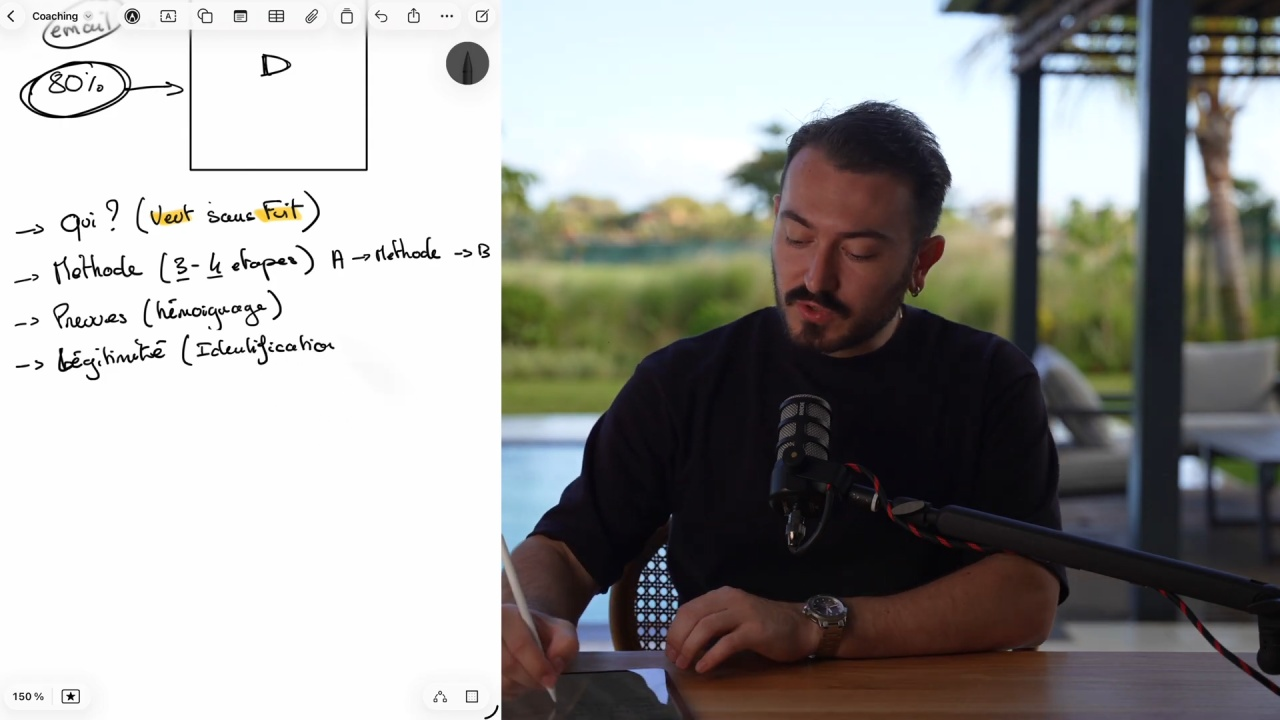
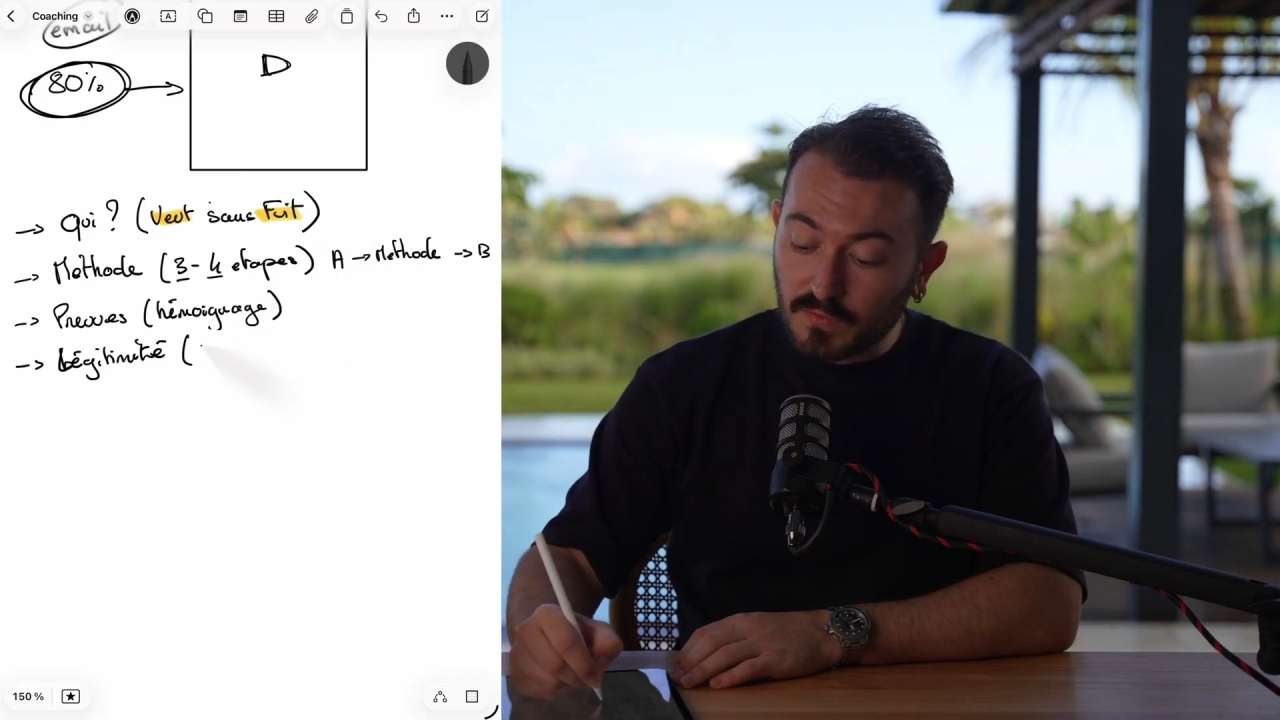
go.funnels.club/lancement et /lancement-appel ; le bouton dit « appel de candidature »

diff --git a/apps/web/contenu/pages-video.ts b/apps/web/contenu/pages-video.ts
@@ -1,5 +1,5 @@
 /**
- * Les pages `go.funnels.club/debuts` et `/stable`, sur demande de Rémy : une
+ * Les pages `go.funnels.club/debuts`, `/stable` et `/lancement`, sur demande de Rémy : une
  * vidéo Wistia et son titre. La description est à valider par Rémy.
  */
 export const videoDebuts = {
@@ -19,12 +19,28 @@ export const videoStable = {
 } as const;
 
 /**
- * `go.funnels.club/debuts-appel` et `/stable-appel` : `/debuts` et `/stable`
- * avec un bouton sous la vidéo vers l'appel, sur demande de Rémy. Le libellé
- * est celui de `/strategie`, écrit une fois pour les deux pages.
+ * `go.funnels.club/lancement`. Le titre est le nom de la vidéo dans Wistia,
+ * sans son préfixe « Confirmation · » ; la vidéo est aussi celle de qui démarre
+ * de zéro sur `/thanks-quizz`. La description est à valider par Rémy.
+ */
+export const videoLancement = {
+  id: "vkvffo2189",
+  /* 2 738,73 secondes, relevées sur l'API de Wistia. */
+  secondes: 2739,
+  titre: "Comment lancer une formation en ligne en 2026",
+  description:
+    "La vidéo où Rémy Jupille explique comment lancer une formation en ligne en 2026, étape par étape.",
+} as const;
+
+/**
+ * `go.funnels.club/debuts-appel`, `/stable-appel` et `/lancement-appel` : `/debuts` et `/stable`
+ * avec un bouton sous la vidéo vers l'appel, sur demande de Rémy. « Appel de
+ * candidature » et non « découverte », sur sa demande : écrit une fois pour
+ * les trois pages.
  */
 const appelVideo = {
-  libelle: "Réserver mon appel découverte",
+  libelle: "Réserver mon appel de candidature",
 } as const;
 export const appelDebuts = appelVideo;
 export const appelStable = appelVideo;
+export const appelLancement = appelVideo;

diff --git a/apps/web/app/lancement-appel/page.tsx b/apps/web/app/lancement-appel/page.tsx
@@ -1,0 +1,37 @@
+import { PageVideo } from "@/components/page-video";
+import { appelLancement, videoLancement } from "@/contenu/pages-video";
+import { liens } from "@/contenu/site";
+import { partageTunnel } from "@/lib/partage";
+import { avecReglages } from "@/lib/reglages-seo";
+import type { Metadata } from "next";
+
+/**
+ * `/lancement` avec un bouton d'appel sous la vidéo, sur demande de Rémy. Même
+ * vidéo, même titre, même suite ; l'aperçu de partage est celui de `/lancement`.
+ * L'adresse de l'appel porte sa balise Hyros, déjà posée dans `liens`.
+ */
+const metadonnees: Metadata = {
+  title: videoLancement.titre,
+  description: videoLancement.description,
+  ...partageTunnel({
+    titre: `${videoLancement.titre} · Funnels Club`,
+    description: videoLancement.description,
+    image: "lancement",
+    alt: videoLancement.titre,
+  }),
+};
+
+export default function LancementAppel() {
+  return (
+    <PageVideo
+      titre={videoLancement.titre}
+      video={videoLancement}
+      appel={{ href: liens.appel, libelle: appelLancement.libelle }}
+    />
+  );
+}
+
+/** Les métadonnées de la page, avec les réglages SEO du CRM par-dessus. */
+export async function generateMetadata(): Promise<Metadata> {
+  return avecReglages("/lancement-appel", metadonnees);
+}

diff --git a/apps/web/components/page-video.tsx b/apps/web/components/page-video.tsx
@@ -8,10 +8,10 @@ import { insecables } from "@/lib/typographie";
  * Une page de `go.funnels.club` faite d'une vidéo, sur le modèle de `/thanks`,
  * sur demande de Rémy : le titre tout en haut, la vidéo sans carte blanche,
  * puis la suite de la page telle quelle, de Roland à l'équipe.
- * Sert à `/debuts`, `/stable` et à leurs versions `-appel`, hors du Quizz Funnel.
+ * Sert à `/debuts`, `/stable`, `/lancement` et à leurs versions `-appel`, hors du Quizz Funnel.
  *
  * `appel`, facultatif, pose un bouton sous la vidéo : c'est ce qui distingue
- * `/stable-appel` de `/stable`, et `/debuts-appel` de `/debuts`, sur demande de Rémy. Il s'ouvre dans un nouvel
+ * la version `-appel` de sa page, sur demande de Rémy. Il s'ouvre dans un nouvel
  * onglet, le défaut de `BoutonScintillant`, pour que la vidéo continue, et
  * relaie le `el` et l'e-mail reçus : voir `BoutonAppelRelaye`.
  */

diff --git a/apps/web/app/lancement/page.tsx b/apps/web/app/lancement/page.tsx
@@ -1,0 +1,25 @@
+import { PageVideo } from "@/components/page-video";
+import { videoLancement } from "@/contenu/pages-video";
+import { partageTunnel } from "@/lib/partage";
+import { avecReglages } from "@/lib/reglages-seo";
+import type { Metadata } from "next";
+
+const metadonnees: Metadata = {
+  title: videoLancement.titre,
+  description: videoLancement.description,
+  ...partageTunnel({
+    titre: `${videoLancement.titre} · Funnels Club`,
+    description: videoLancement.description,
+    image: "lancement",
+    alt: videoLancement.titre,
+  }),
+};
+
+export default function Lancement() {
+  return <PageVideo titre={videoLancement.titre} video={videoLancement} />;
+}
+
+/** Les métadonnées de la page, avec les réglages SEO du CRM par-dessus. */
+export async function generateMetadata(): Promise<Metadata> {
+  return avecReglages("/lancement", metadonnees);
+}

diff --git a/apps/web/app/lancement-appel/layout.tsx b/apps/web/app/lancement-appel/layout.tsx
@@ -1,0 +1,14 @@
+import { CadrePageVideo } from "@/components/cadre-page-video";
+import type { Metadata } from "next";
+
+/** Une page de tunnel : hors du site, interdite d'index, absente de `sitemap.ts`. */
+export const metadata: Metadata = {
+  alternates: { canonical: "https://go.funnels.club/lancement-appel" },
+  robots: { index: false, follow: false, nocache: true, noimageindex: true },
+};
+
+export default function LayoutLancementAppel({
+  children,
+}: Readonly<{ children: React.ReactNode }>) {
+  return <CadrePageVideo>{children}</CadrePageVideo>;
+}

diff --git a/apps/web/app/lancement/layout.tsx b/apps/web/app/lancement/layout.tsx
@@ -1,0 +1,14 @@
+import { CadrePageVideo } from "@/components/cadre-page-video";
+import type { Metadata } from "next";
+
+/** Une page de tunnel : hors du site, interdite d'index, absente de `sitemap.ts`. */
+export const metadata: Metadata = {
+  alternates: { canonical: "https://go.funnels.club/lancement" },
+  robots: { index: false, follow: false, nocache: true, noimageindex: true },
+};
+
+export default function LayoutLancement({
+  children,
+}: Readonly<{ children: React.ReactNode }>) {
+  return <CadrePageVideo>{children}</CadrePageVideo>;
+}

diff --git a/apps/web/lib/tunnels.ts b/apps/web/lib/tunnels.ts
@@ -33,6 +33,8 @@ export const TUNNELS = [
   "/debuts-appel",
   "/stable",
   "/stable-appel",
+  "/lancement",
+  "/lancement-appel",
   ...CHEMINS_TEMOIGNAGE,
   "/form-funnel-thanks",
   "/prochaine-etape",

diff --git a/apps/web/components/fournisseur-theme.tsx b/apps/web/components/fournisseur-theme.tsx
@@ -22,6 +22,8 @@ const PAGES_CLAIRES = [
   "/debuts-appel",
   "/stable",
   "/stable-appel",
+  "/lancement",
+  "/lancement-appel",
   ...CHEMINS_TEMOIGNAGE,
   "/form-funnel-thanks",
   "/prochaine-etape",

diff --git a/AGENTS.md b/AGENTS.md
@@ -2138,11 +2138,15 @@ geste de la page, vers `liens.appel`. Pas de galerie, pas d'équipe, pas de
 consigne. Le titre et le sous-titre sont de l'agent, d'après l'e-mail : à
 valider par Rémy.
 
-**`/debuts-appel` et `/stable-appel` sont `/debuts` et `/stable` avec un
-bouton sous la vidéo**, sur demande de Rémy : le même `PageVideo`, dont la
+**`/lancement` est le troisième de la famille**, sur la vidéo
+`vkvffo2189` (celle de qui démarre de zéro sur `/thanks-quizz`), avec sa
+version `/lancement-appel`.
+
+**`/debuts-appel`, `/stable-appel` et `/lancement-appel` sont leur page sans
+suffixe avec un bouton sous la vidéo**, sur demande de Rémy : le même `PageVideo`, dont la
 propriété `appel` pose le `BoutonScintillant` en grand, vers `liens.appel`,
-dans un nouvel onglet pour que la vidéo continue. Le libellé est celui de
-`/strategie`. Les deux versions sans bouton restent servies telles quelles.
+dans un nouvel onglet pour que la vidéo continue. Le libellé dit « appel
+de candidature » et non « découverte », sur demande de Rémy. Les deux versions sans bouton restent servies telles quelles.
 
 **Leur bouton relaie le `el` et l'`email` reçus**, et les `utm_*`
 (`BoutonAppelRelaye`). Rémy envoie ces pages par e-mail avec
